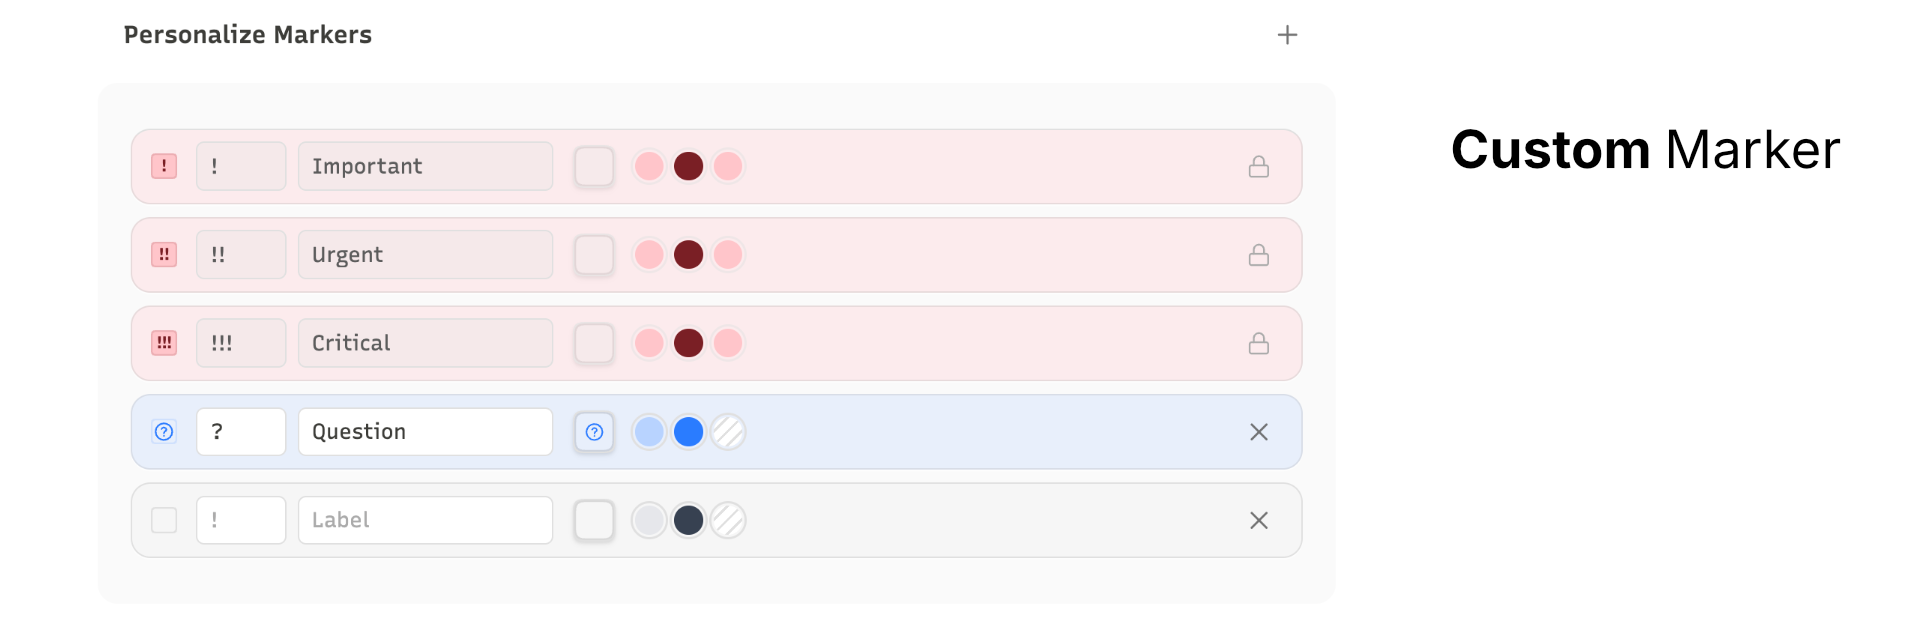
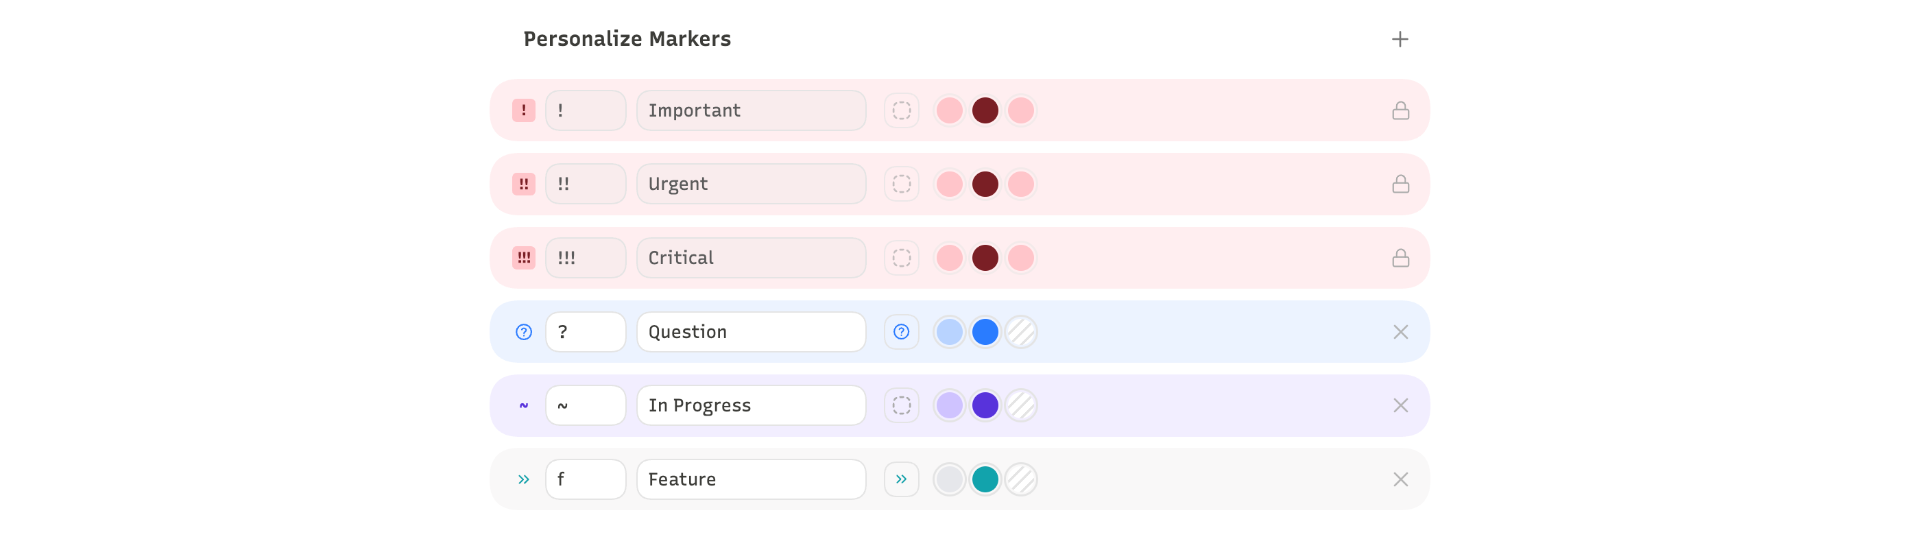
docs: refresh readme copy and preview images

diff --git a/README.md b/README.md
@@ -1,19 +1,23 @@
 # Markr
 
-![pi-pane preview](.github/assets/preview.png)
+![Markr preview](.github/assets/preview.png)
 
-Trigger-based list and task markers for [Obsidian](https://obsidian.md) — colored badges, line tints, and icons in Live Preview and Reading View. Inspired by [List Callouts](https://github.com/mgmeyers/obsidian-list-callouts) by mgmeyers.
+Trigger-based list and task markers for [Obsidian](https://obsidian.md) — character or icon badges and line tints in Live Preview and Reading View. Inspired by [List Callouts](https://github.com/mgmeyers/obsidian-list-callouts) by mgmeyers.
+
+**Why does this plugin exist?**
+
+Not everything on a list deserves equal weight — I needed a real sense of priority. That's closer to the Eisenhower Matrix, for prioritizing my own day-to-day workflow.
 
 ## Features
 
 ![Custom marker settings](.github/assets/preview-settings.png)
 
-Each marker is configured in settings — choose a trigger, label, Lucide icon, line color, and badge color independently.
+Every marker is fully configurable — pick the trigger, label, any built-in Lucide icon, line color, and badge color independently.
 
-- **Priority markers built in** — `!` Important, `!!` Urgent, `!!!` Critical, no setup required
-- **Any trigger** — 1–3 characters on any list item becomes a colored badge with line tint
-- **Command palette** — apply, remove, and cycle markers without touching the trigger text
-- **Theme-safe** — composites over any Obsidian theme without hardcoded colors
+- **Priority markers built in**: zero setup, toggle on/off anytime
+- **Any trigger**: 1–3 characters on any list item becomes a colored badge with line tint
+- **Command palette**: apply, remove, and cycle markers without touching the trigger text
+- **Theme-safe**: no hardcoded colors, works with any theme
 
 ## Install
 
